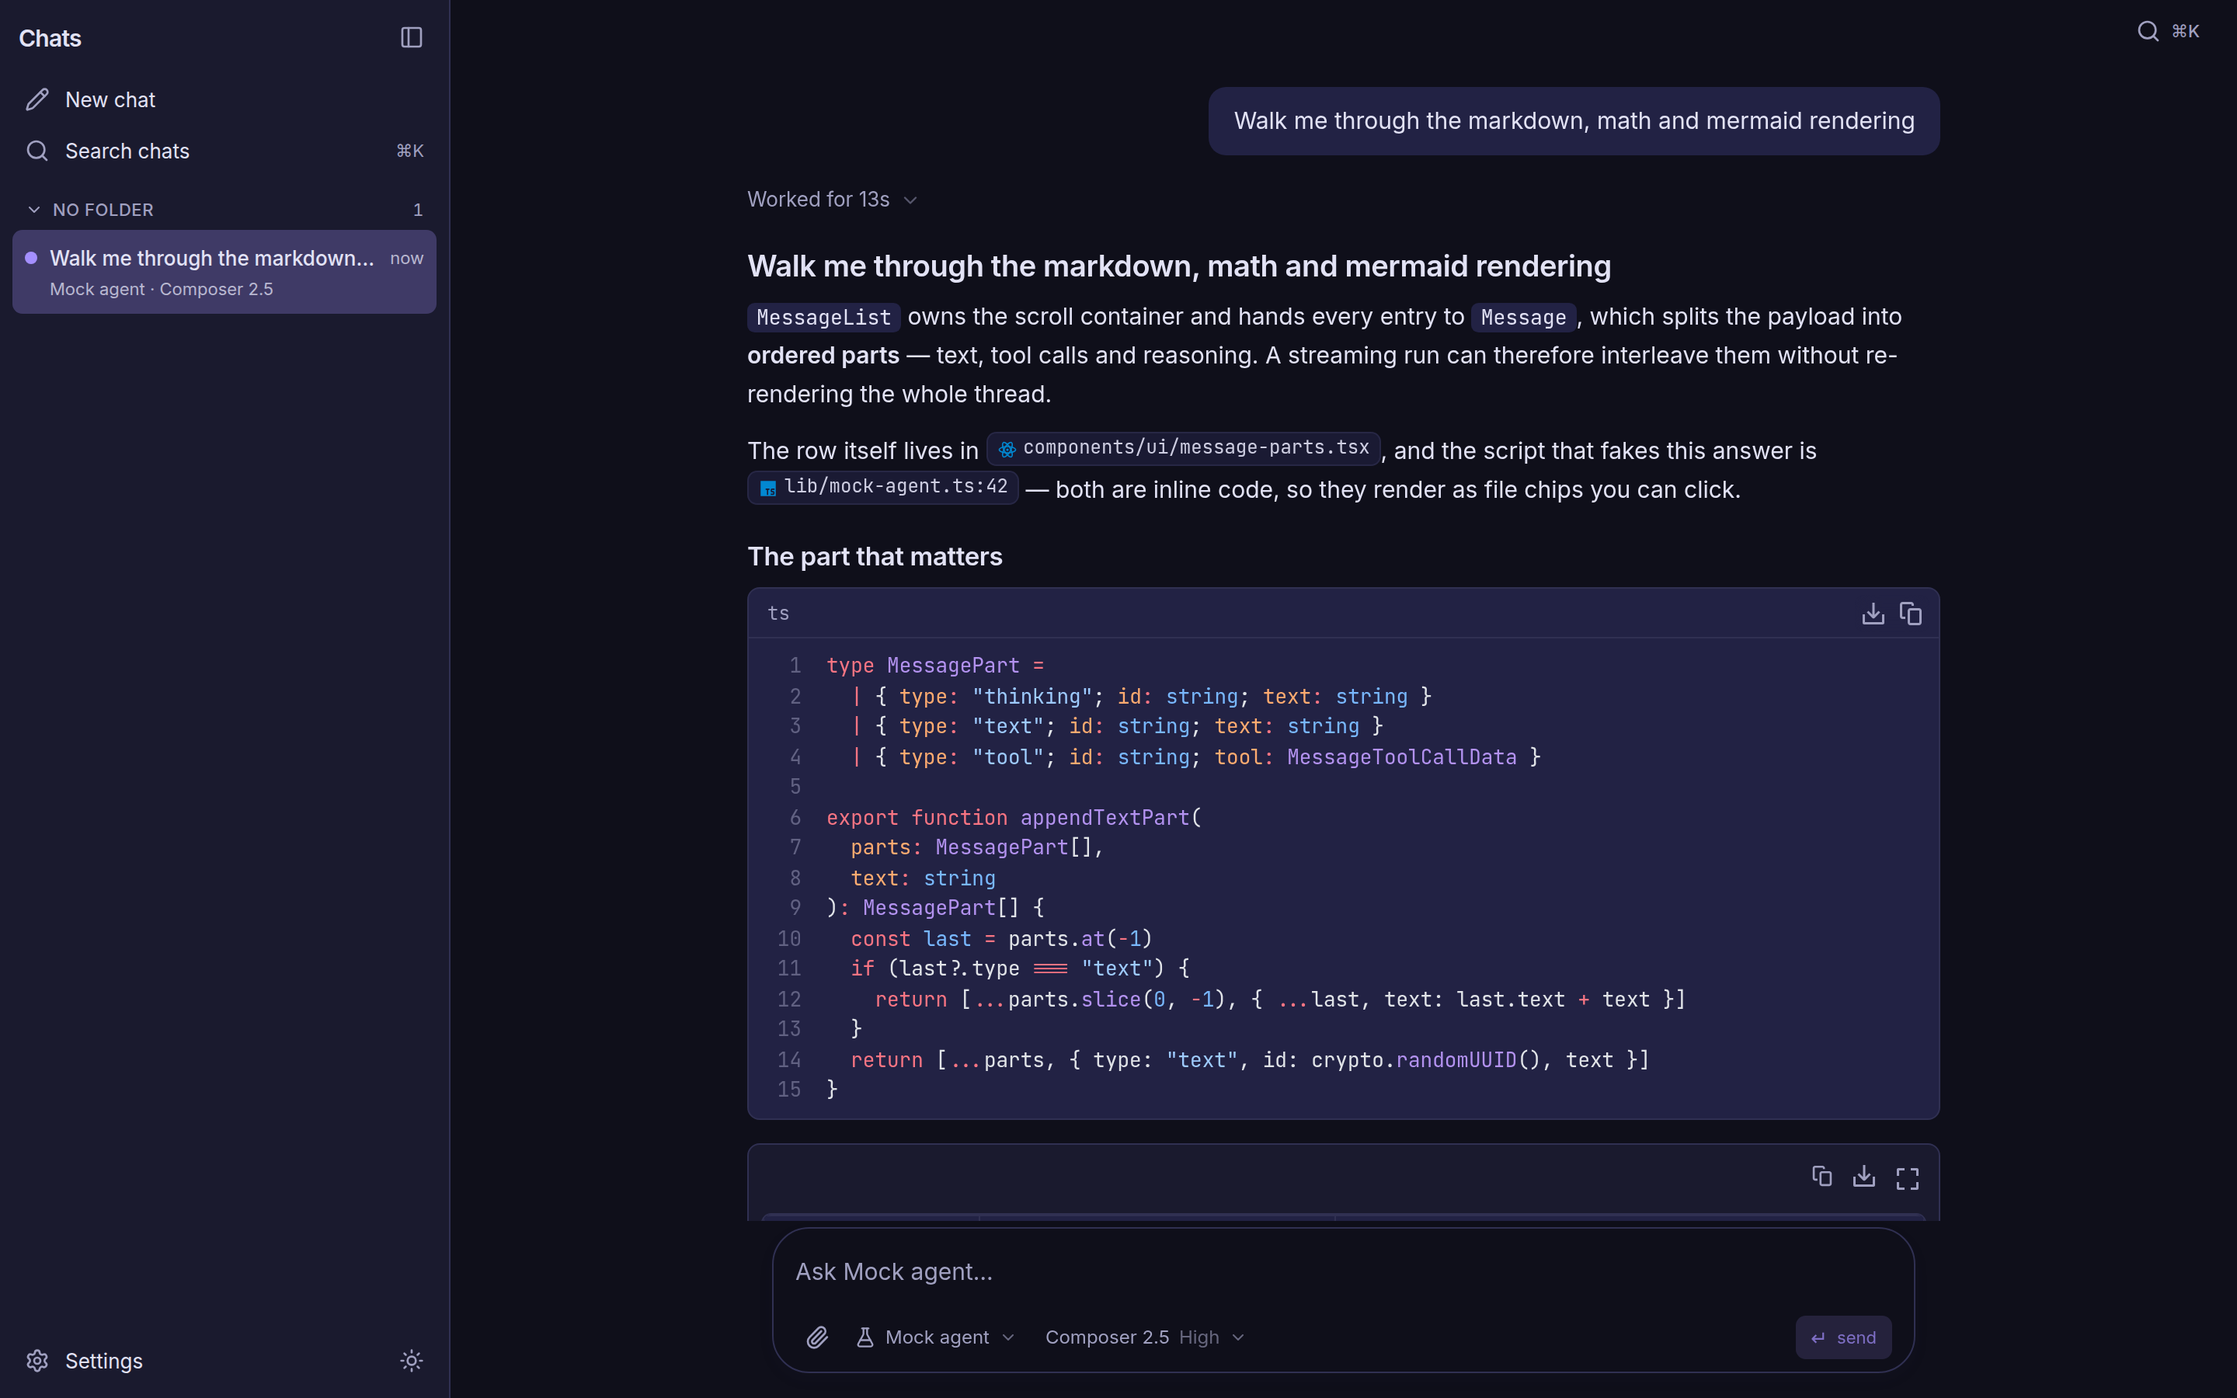
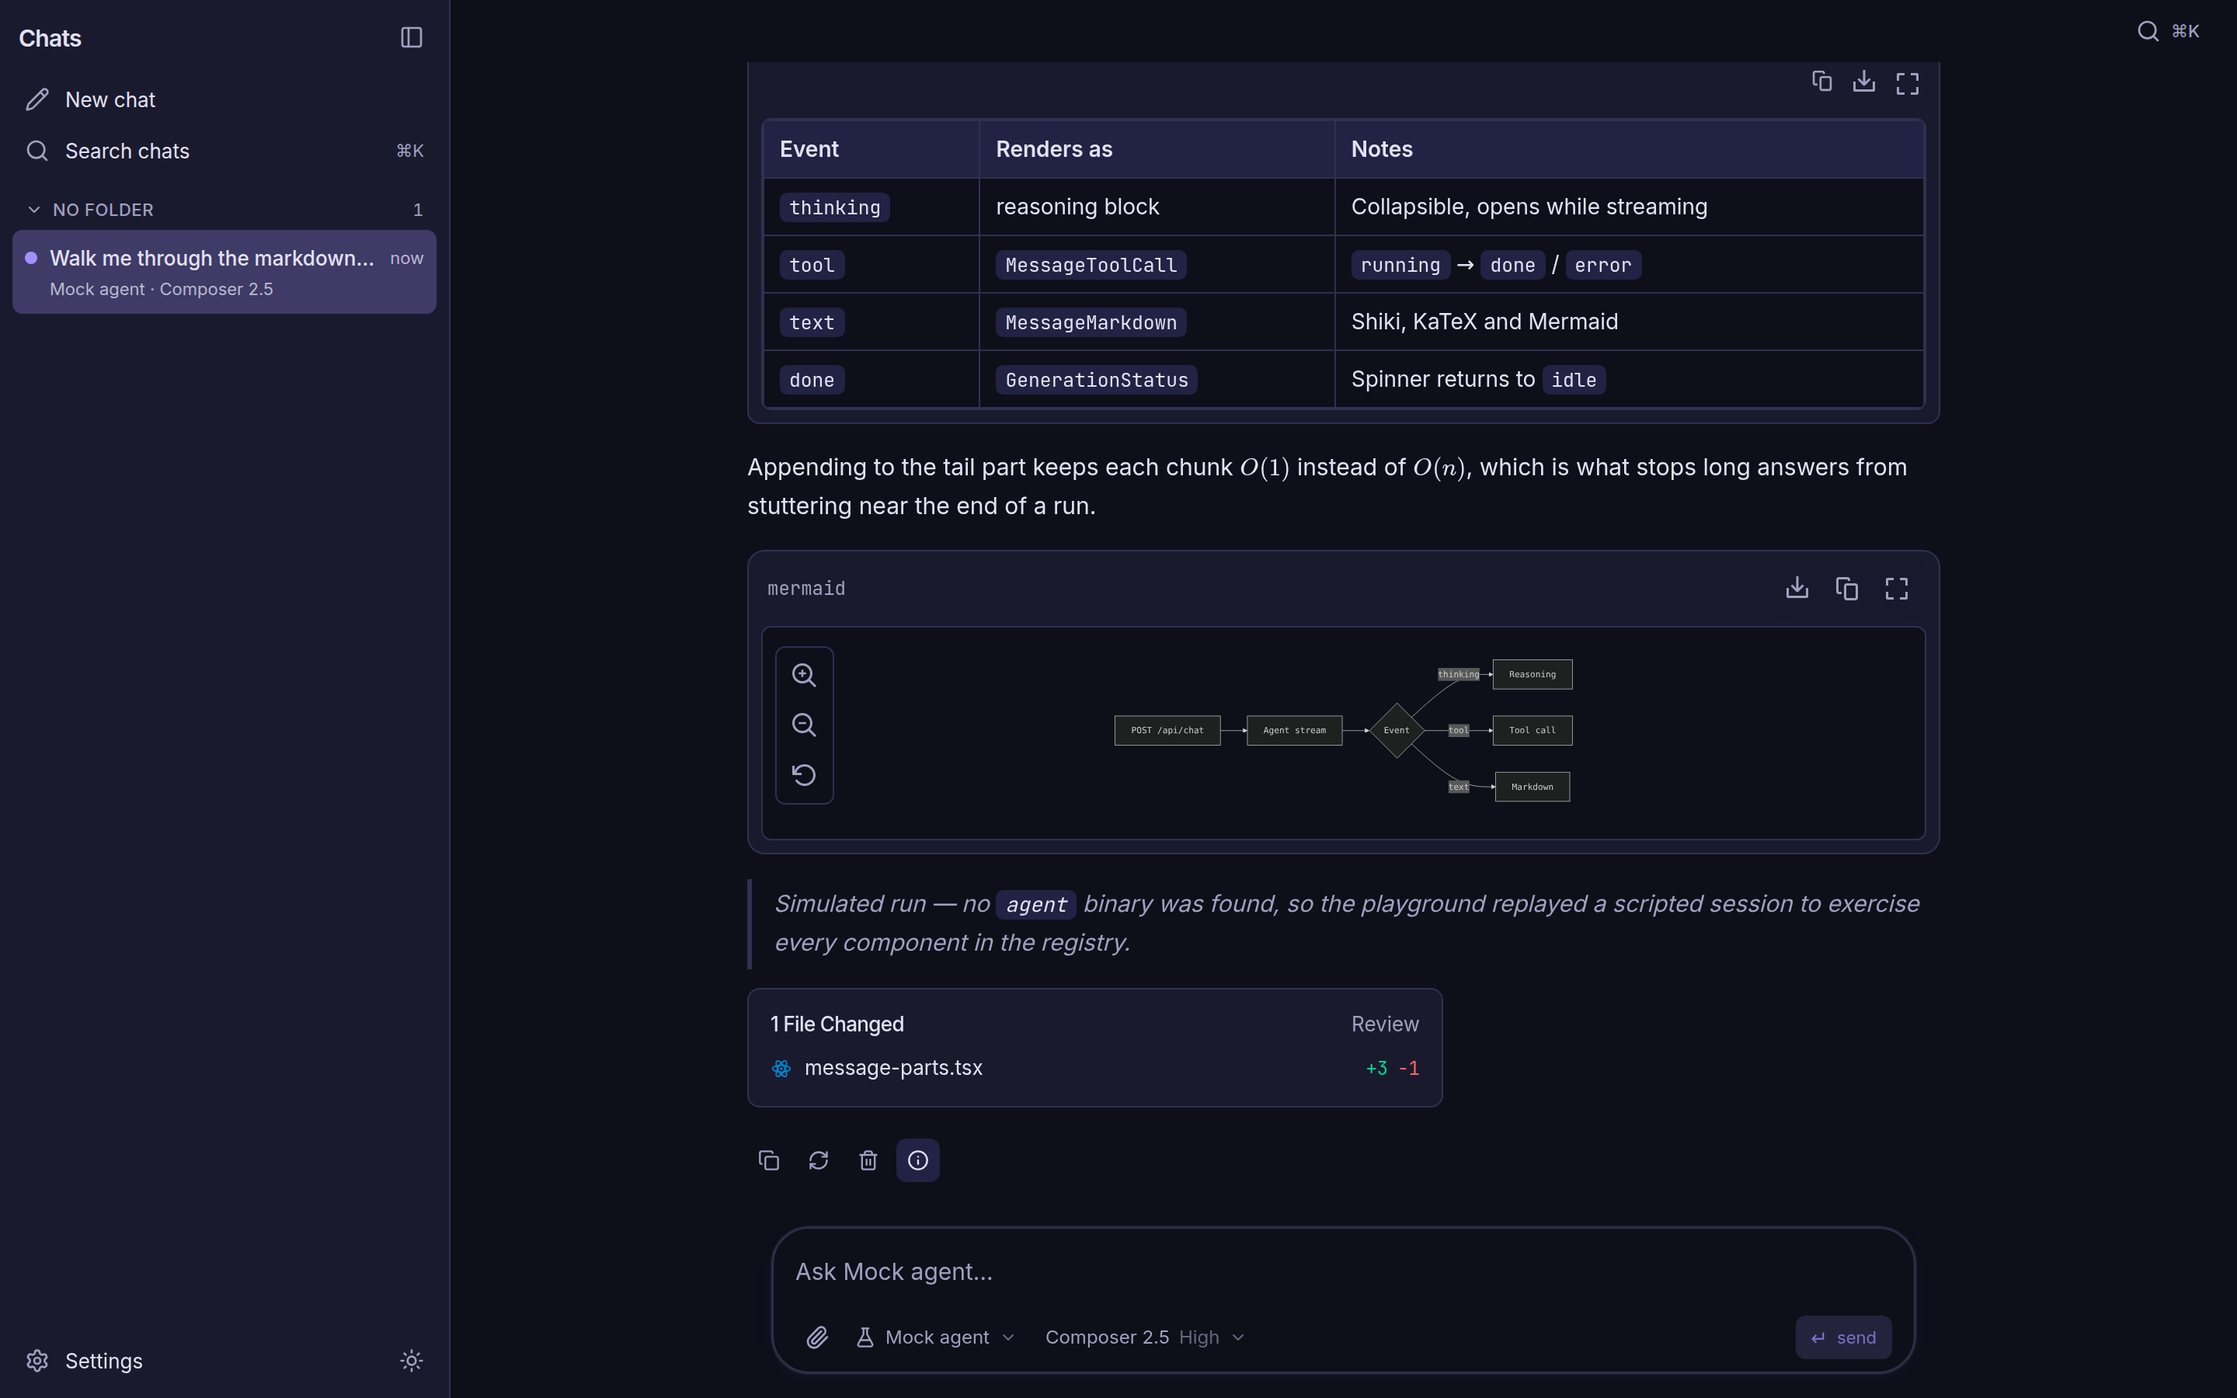
feat(chat): float the composer over the transcript, and forbid vendored drift
**The composer is an island now.** It used to sit in a full-width band
under the conversation, so the transcript stopped dead above an opaque
strip and the space either side of the composer showed nothing. Once a
chat has messages the composer floats: the list runs to the bottom of the
window and slides beneath it, and content is visible in the margins
around it. Only the composer's own children take the pointer, so the
transcript stays scrollable right up to the window's edge.

The list reserves exactly the room the island takes — which grows and
shrinks, with a todo line, with chips, with a textarea that has been
typed into — from one `ResizeObserver` that writes the measured height
onto the pane as `--composer-height`. It reads `borderBoxSize` rather
than a bounding rect: the pane may live inside the `--ui-scale` wrapper,
where a rect comes back in visual pixels while the padding it feeds
resolves in the element's own, and the two would disagree by exactly the
zoom factor. On an empty chat nothing floats — the composer stays in the
centred column where it belongs.

Vendored from chat-components@2d27aea, which carries the two halves this
needed: the composer's lift (`shadow-lg`, and a foreground rim in dark
where a black shadow is invisible) and an auto-scroll that re-pins when
content grows *after* the last message — a mermaid diagram mounting, an
image loading — which used to leave the last turn parked behind the
island.
[…]

Changed region(s): [[0.3125, 0.0622, 0.875, 0.8711], [0.0312, 0.9644, 0.0625, 0.9956]]

diff --git a/app/page.tsx b/app/page.tsx
@@ -560,6 +560,39 @@ export default function ChatPage() {
     (activeSession?.messageCount ?? 0) > 0
   const isEmptyChat = messages.length === 0 && !threadLoading
   const drawerOpen = mobileNavOpen && !isDesktop
+
+  /**
+   * The composer is an island: once a chat has messages it floats over the
+   * transcript instead of sitting in a full-width band under it, so the
+   * conversation keeps running to the bottom of the window and slides beneath
+   * it. That only works if the list reserves exactly as much room as the
+   * island takes — and it grows and shrinks, with a todo line, with chips, with
+   * a textarea that has been typed into. One observer writes the measured
+   * height onto the pane and the list pads by that variable.
+   *
+   * `borderBoxSize`, not a bounding rect: the pane may live inside the
+   * `--ui-scale` wrapper, where a rect comes back in visual pixels while the
+   * padding it feeds is resolved in the element's own — the two would disagree
+   * by exactly the zoom factor.
+   */
+  const chatPaneRef = React.useRef<HTMLDivElement>(null)
+  const composerRef = React.useRef<HTMLDivElement>(null)
+
+  React.useEffect(() => {
+    const pane = chatPaneRef.current
+    const composer = composerRef.current
+    if (!pane || !composer || typeof ResizeObserver === "undefined") return
+    const observer = new ResizeObserver((entries) => {
+      const entry = entries[0]
+      if (!entry) return
+      const height =
+        entry.borderBoxSize?.[0]?.blockSize ??
+        entry.target.getBoundingClientRect().height
+      pane.style.setProperty("--composer-height", `${Math.round(height)}px`)
+    })
+    observer.observe(composer)
+    return () => observer.disconnect()
+  }, [])
   // The file panel is a resizable pane on desktop and an overlay below md.
   // Derived, so exactly one FilePreview is ever mounted.
   const dockedPreview = isDesktop ? preview : null
@@ -2386,8 +2419,9 @@ export default function ChatPage() {
               style={{ overflow: "hidden" }}
             >
               <div
+                ref={chatPaneRef}
                 className={cn(
-                  "flex min-h-0 flex-1 flex-col overflow-x-hidden",
+                  "relative flex min-h-0 flex-1 flex-col overflow-x-hidden",
                   isEmptyChat && "justify-center"
                 )}
               >
@@ -2404,6 +2438,10 @@ export default function ChatPage() {
                   </div>
                 ) : (
                   <MessageList
+                    /* Room for the island above, inside the scroller — so the
+                       last turn settles just clear of it and everything above
+                       still scrolls the whole height of the pane. */
+                    className="pb-[calc(var(--composer-height,7rem)+0.5rem)]"
                     messages={listMessages}
                     isGenerating={isGenerating}
                     generationStage={activeRun?.stage ?? "idle"}
@@ -2455,7 +2493,19 @@ export default function ChatPage() {
                   </MessageList>
                 )}
 
-                <div data-slot="chat-composer" className="w-full shrink-0">
+                <div
+                  ref={composerRef}
+                  data-slot="chat-composer"
+                  className={cn(
+                    "w-full shrink-0",
+                    // An island over the conversation, not a band beside it:
+                    // the wrapper spans the pane so the composer stays centred,
+                    // but only its children take the pointer, which leaves the
+                    // transcript scrollable right up to the window's edge.
+                    !isEmptyChat &&
+                      "pointer-events-none absolute inset-x-0 bottom-0 z-20 [&>*]:pointer-events-auto"
+                  )}
+                >
                   {isEmptyChat ? (
                     /* Aligned with the composer card's own measure, so the two
                        read as one control rather than two stacked ones. */

diff --git a/components/ui/message-list.tsx b/components/ui/message-list.tsx
@@ -95,6 +95,7 @@ function useStableCallback<A extends unknown[], R>(
 
 export function useChatAutoScroll(messages: ReadonlyArray<unknown>) {
   const scrollRef = React.useRef<HTMLDivElement>(null)
+  const contentRef = React.useRef<HTMLDivElement>(null)
   const autoScrollRef = React.useRef(true)
   const programmaticScrollUntilRef = React.useRef(0)
   const prevMessageCountRef = React.useRef(0)
@@ -147,6 +148,34 @@ export function useChatAutoScroll(messages: ReadonlyArray<unknown>) {
     })
   }, [messages])
 
+  /**
+   * The effect above fires on new *messages*. Plenty of height arrives after
+   * the last one: a mermaid diagram mounting, Shiki replacing a plain block, an
+   * image loading, a font swapping in. Each of those leaves a follower parked a
+   * screenful short of the bottom — visibly so under a floating composer, where
+   * the shortfall reads as the last turn hiding behind it.
+   *
+   * So the content box is watched too, and while the reader is still following
+   * the run, a growth spurt re-pins them. Instantly, never smoothly: this is a
+   * layout correction, not a navigation, and animating it would outlast the
+   * window below that tells a programmatic scroll from the reader's own.
+   */
+  React.useEffect(() => {
+    const content = contentRef.current
+    if (!content || typeof ResizeObserver === "undefined") return
+    const observer = new ResizeObserver(() => {
+      if (!autoScrollRef.current) return
+      const node = scrollRef.current
+      if (!node) return
+      const distance = node.scrollHeight - node.scrollTop - node.clientHeight
+      if (distance <= 1) return
+      programmaticScrollUntilRef.current = Date.now() + 500
+      node.scrollTo({ top: node.scrollHeight, behavior: "auto" })
+    })
+    observer.observe(content)
+    return () => observer.disconnect()
+  }, [])
+
   React.useEffect(
     () => () => {
       if (frameRef.current) cancelAnimationFrame(frameRef.current)
@@ -154,7 +183,7 @@ export function useChatAutoScroll(messages: ReadonlyArray<unknown>) {
     []
   )
 
-  return { scrollRef, handleMessageScroll }
+  return { scrollRef, contentRef, handleMessageScroll }
 }
 
 function hasAskTool(
@@ -359,7 +388,7 @@ export function MessageList({
   onScroll,
   ...props
 }: MessageListProps) {
-  const { scrollRef, handleMessageScroll } = useChatAutoScroll(messages)
+  const { scrollRef, contentRef, handleMessageScroll } = useChatAutoScroll(messages)
   const lastIndex = messages.length - 1
 
   const stableEdit = useStableCallback(onEditMessage)
@@ -387,7 +416,10 @@ export function MessageList({
       )}
       {...props}
     >
-      <div className="mx-auto flex min-h-full w-full max-w-3xl min-w-0 flex-col">
+      <div
+        ref={contentRef}
+        className="mx-auto flex min-h-full w-full max-w-3xl min-w-0 flex-col"
+      >
         {messages.length === 0
           ? (emptyState ?? <div className="flex flex-1 items-center justify-center" />)
           : messages.map((message, index) => {

diff --git a/components/ui/chat-input.tsx b/components/ui/chat-input.tsx
@@ -270,8 +270,19 @@ export function ChatInput({
           className={cn(
             /* A hairline card, not a pill: the focus state is a border-color
                shift rather than a ring, so a 700px-wide surface never lights
-               up like a text field. */
-            "rounded-2xl border bg-background px-3 pt-2.5 pb-2 shadow-xs transition-colors has-[textarea:focus]:border-ring sm:px-3.5",
+               up like a text field.
+
+               It carries the theme's own `shadow-lg` because the composer is
+               the one surface that floats: hosts that let the transcript run to
+               the bottom of the window have it sitting *over* the conversation,
+               and a hairline alone does not say "on top of". Opaque, for the
+               same reason — text passing underneath must not show through.
+
+               A shadow is black, though, which is most of nothing on a dark
+               page. So dark mode gets a rim of the foreground instead — the
+               same lift, built from the light in the theme rather than from
+               its absence. */
+            "rounded-2xl border bg-background px-3 pt-2.5 pb-2 shadow-lg transition-colors has-[textarea:focus]:border-ring dark:ring-1 dark:ring-foreground/10 sm:px-3.5",
             dragOver && "border-primary ring-1 ring-primary/20"
           )}
           onDragOver={(e) => {

diff --git a/AGENTS.md b/AGENTS.md
@@ -26,6 +26,31 @@ Need app-specific behavior a generic component shouldn't carry? Compose around t
 edit the vendored file. If composition genuinely can't express it, that's the signal the
 upstream component needs a new prop or slot: go through steps 1–4.
 
+### The copies must never drift
+
+`npm run vendor:check` (`scripts/check-vendored.mjs`) diffs every vendored file against a
+sibling `../chat-components` checkout — override with `--repo <path>` or `CHAT_COMPONENTS_DIR`
+— and fails on any byte that differs, on a file in `components/ui` with no upstream twin, and
+on one upstream has that this app has lost. It skips silently when the checkout is absent, so
+it is a check you run beside a clone, not something CI can do for you. **Run it after any sync,
+and before opening a PR that touches `components/ui`.**
+
+Drift is not a tidiness problem. It is how a fix lands in one repo and silently misses the
+other, and how the next `cp` from upstream deletes a feature nobody remembers adding here.
+Three features once lived only in this repo's copies — the `--ui-scale` portal fix,
+`resolveFileUrl` for image tool rows, and `FilePreviewFile.imageSrc` — and every one of them
+was one careless overwrite from being lost.
+
+**This app is the product; the registry follows it.** So when the two disagree, the answer is
+almost never "patch it here": it is to take *this* repo's behaviour, land it in
+`chat-components` with docs, an example and a registry rebuild, and copy back. Changing a
+vendored file here without doing that is the one thing that is always wrong, however small the
+change looks.
+
+The eight stock shadcn primitives this app installed directly — `badge`, `card`, `input`,
+`label`, `select`, `skeleton`, `slider`, `switch` — are the documented exception: the registry
+does not ship them, so they have no upstream to match. They are listed in the check.
+
 **App-local components** (edit freely, same idiom): `components/app-header.tsx`,
 `components/command-palette.tsx`, `components/folder-picker.tsx`, `components/handoff-notice.tsx`,
 `components/memory-notice.tsx`, `components/message-actions.tsx`,
@@ -262,7 +287,8 @@ every push. `release.yml` builds Win/macOS/Linux installers on `v*` tags.
 
 ## Definition of done
 
-`lint`, `typecheck`, `test`, `build` clean — and for anything user-visible, run the app
+`lint`, `typecheck`, `test`, `build` clean — plus `vendor:check` whenever `components/ui/**`
+or a shared `lib/` module was touched — and for anything user-visible, run the app
 (`AGENT_UI_DIR=/tmp/agent-ui-test node .next/standalone/server.js` after a build) and exercise
 the flow for real; there is a Playwright-style flow suite precedent in the repo history. If the
 UI changed visibly, refresh the screenshots in `.github/screenshots/` and keep `README.md`

diff --git a/CLAUDE.md b/CLAUDE.md
@@ -26,6 +26,31 @@ Need app-specific behavior a generic component shouldn't carry? Compose around t
 edit the vendored file. If composition genuinely can't express it, that's the signal the
 upstream component needs a new prop or slot: go through steps 1–4.
 
+### The copies must never drift
+
+`npm run vendor:check` (`scripts/check-vendored.mjs`) diffs every vendored file against a
+sibling `../chat-components` checkout — override with `--repo <path>` or `CHAT_COMPONENTS_DIR`
+— and fails on any byte that differs, on a file in `components/ui` with no upstream twin, and
+on one upstream has that this app has lost. It skips silently when the checkout is absent, so
+it is a check you run beside a clone, not something CI can do for you. **Run it after any sync,
+and before opening a PR that touches `components/ui`.**
+
+Drift is not a tidiness problem. It is how a fix lands in one repo and silently misses the
+other, and how the next `cp` from upstream deletes a feature nobody remembers adding here.
+Three features once lived only in this repo's copies — the `--ui-scale` portal fix,
+`resolveFileUrl` for image tool rows, and `FilePreviewFile.imageSrc` — and every one of them
+was one careless overwrite from being lost.
+
+**This app is the product; the registry follows it.** So when the two disagree, the answer is
+almost never "patch it here": it is to take *this* repo's behaviour, land it in
+`chat-components` with docs, an example and a registry rebuild, and copy back. Changing a
+vendored file here without doing that is the one thing that is always wrong, however small the
+change looks.
+
+The eight stock shadcn primitives this app installed directly — `badge`, `card`, `input`,
+`label`, `select`, `skeleton`, `slider`, `switch` — are the documented exception: the registry
+does not ship them, so they have no upstream to match. They are listed in the check.
+
 **App-local components** (edit freely, same idiom): `components/app-header.tsx`,
 `components/command-palette.tsx`, `components/folder-picker.tsx`, `components/handoff-notice.tsx`,
 `components/memory-notice.tsx`, `components/message-actions.tsx`,
@@ -262,7 +287,8 @@ every push. `release.yml` builds Win/macOS/Linux installers on `v*` tags.
 
 ## Definition of done
 
-`lint`, `typecheck`, `test`, `build` clean — and for anything user-visible, run the app
+`lint`, `typecheck`, `test`, `build` clean — plus `vendor:check` whenever `components/ui/**`
+or a shared `lib/` module was touched — and for anything user-visible, run the app
 (`AGENT_UI_DIR=/tmp/agent-ui-test node .next/standalone/server.js` after a build) and exercise
 the flow for real; there is a Playwright-style flow suite precedent in the repo history. If the
 UI changed visibly, refresh the screenshots in `.github/screenshots/` and keep `README.md`
